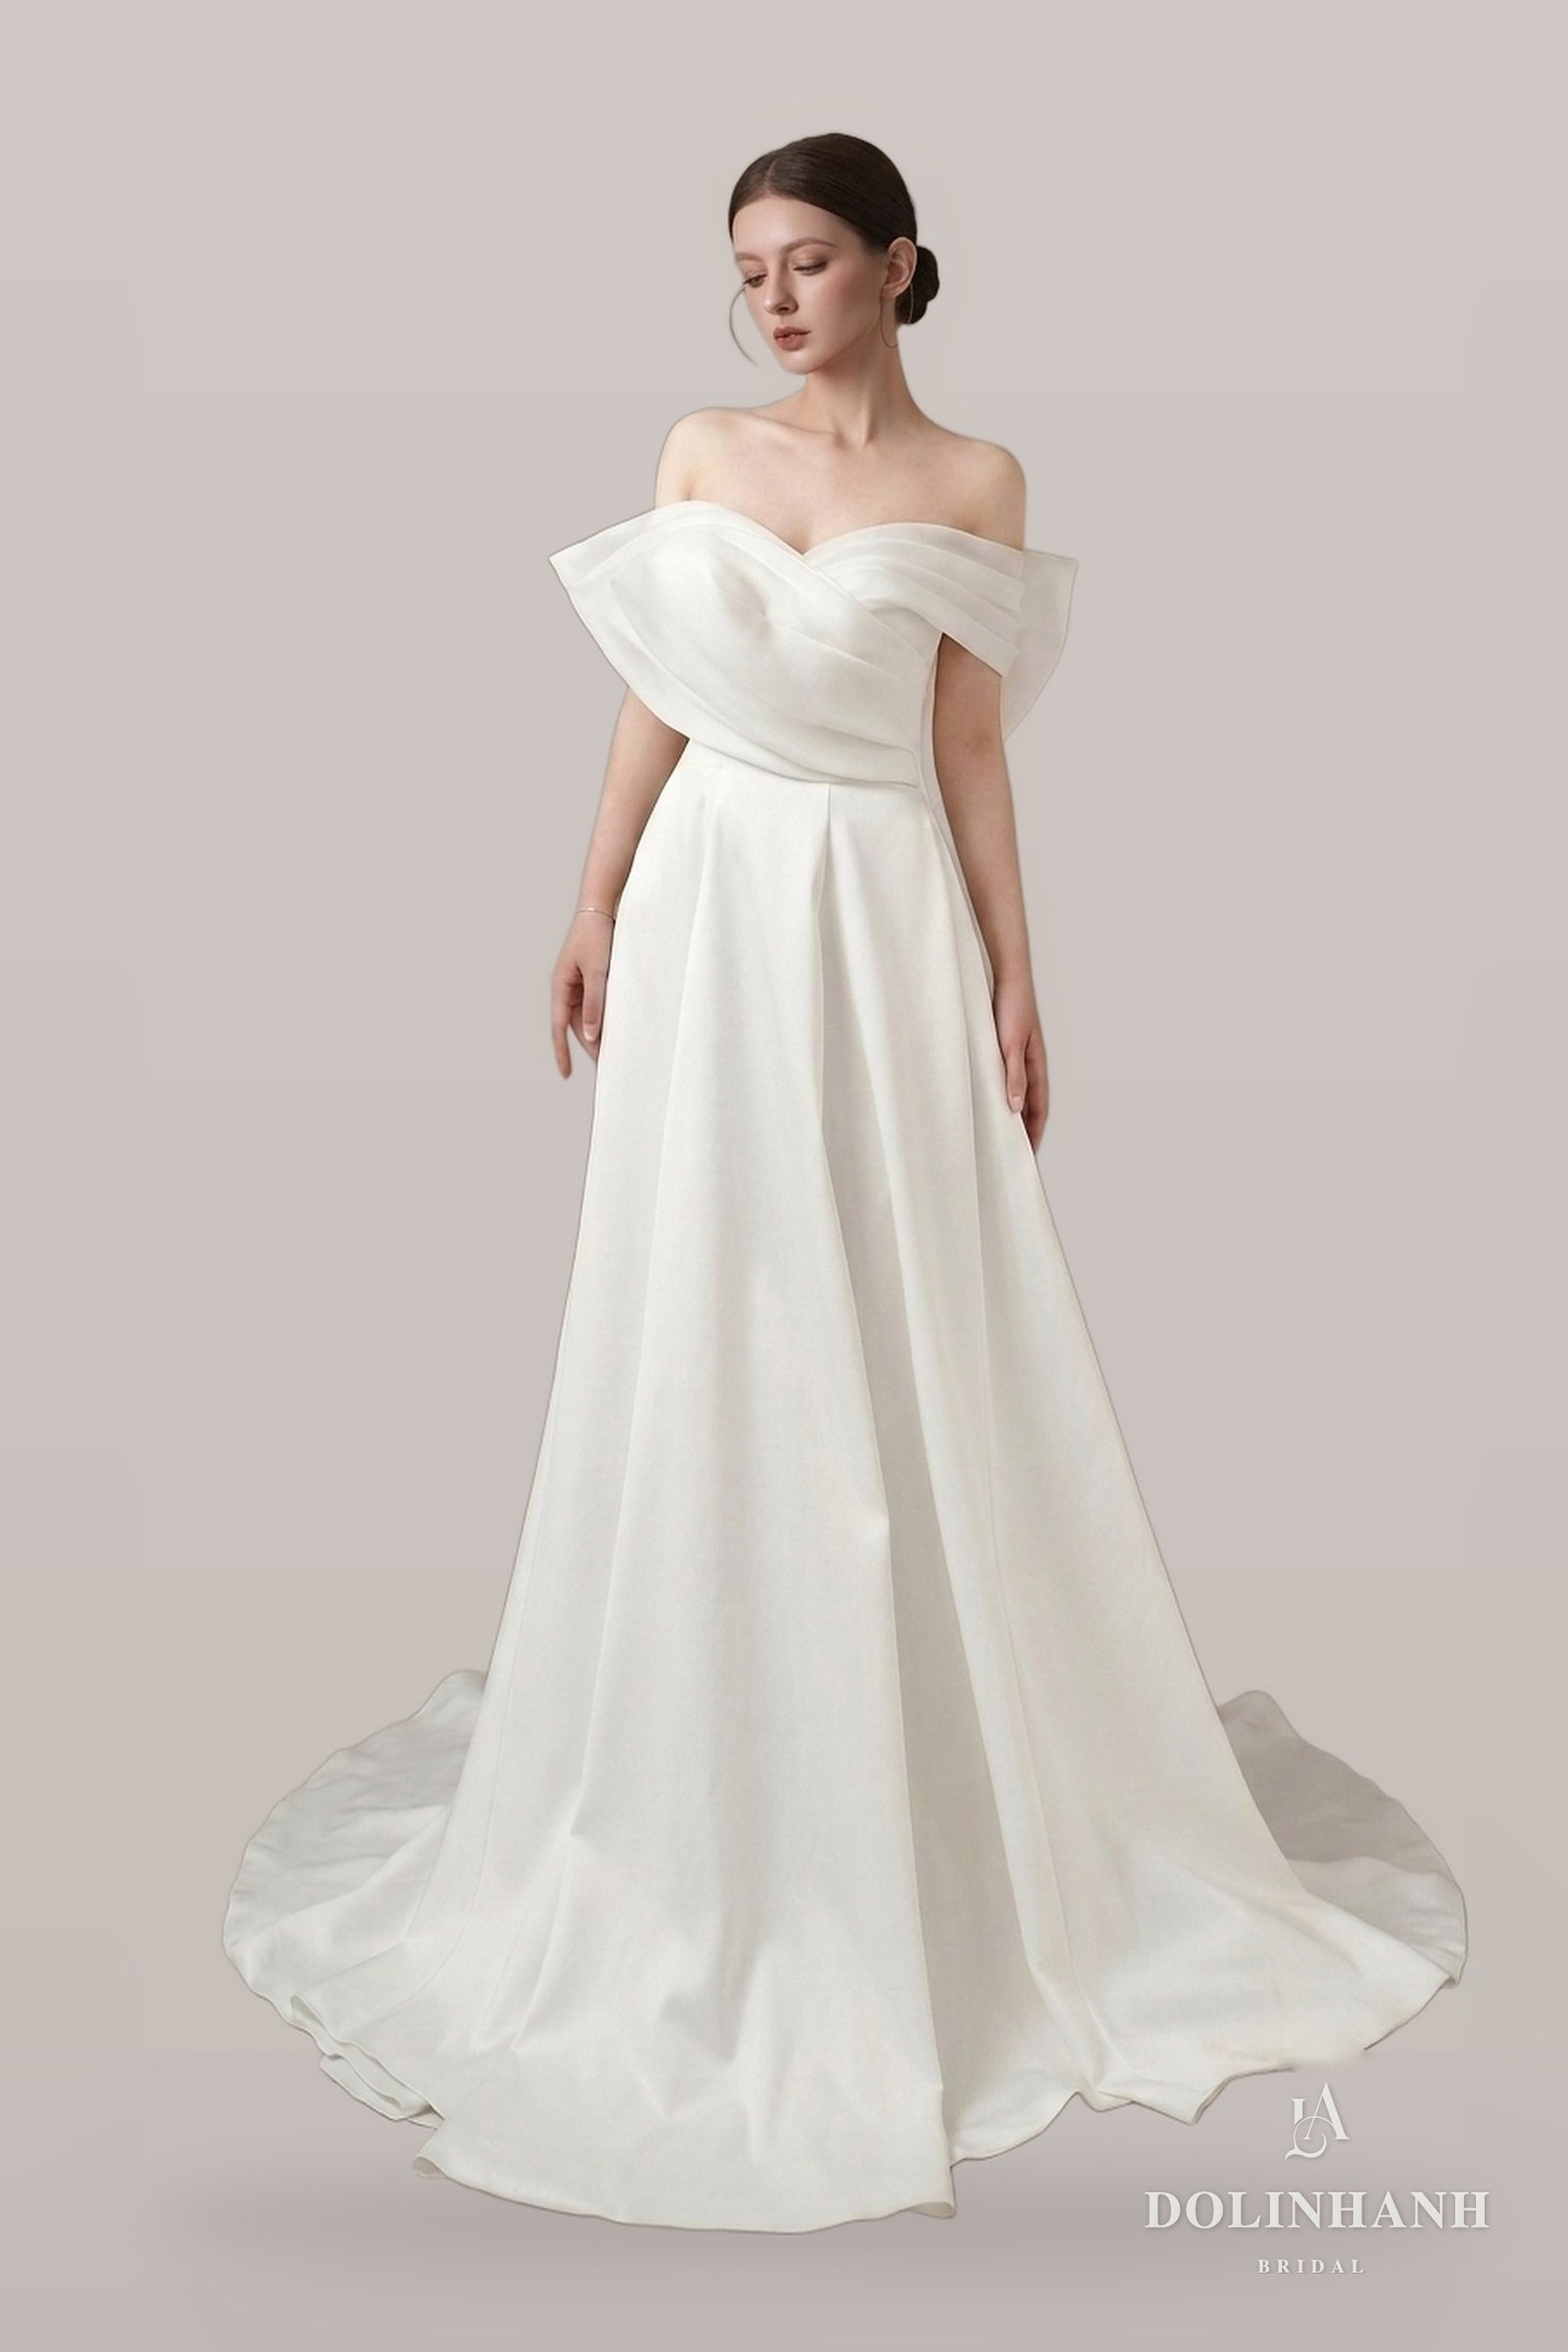
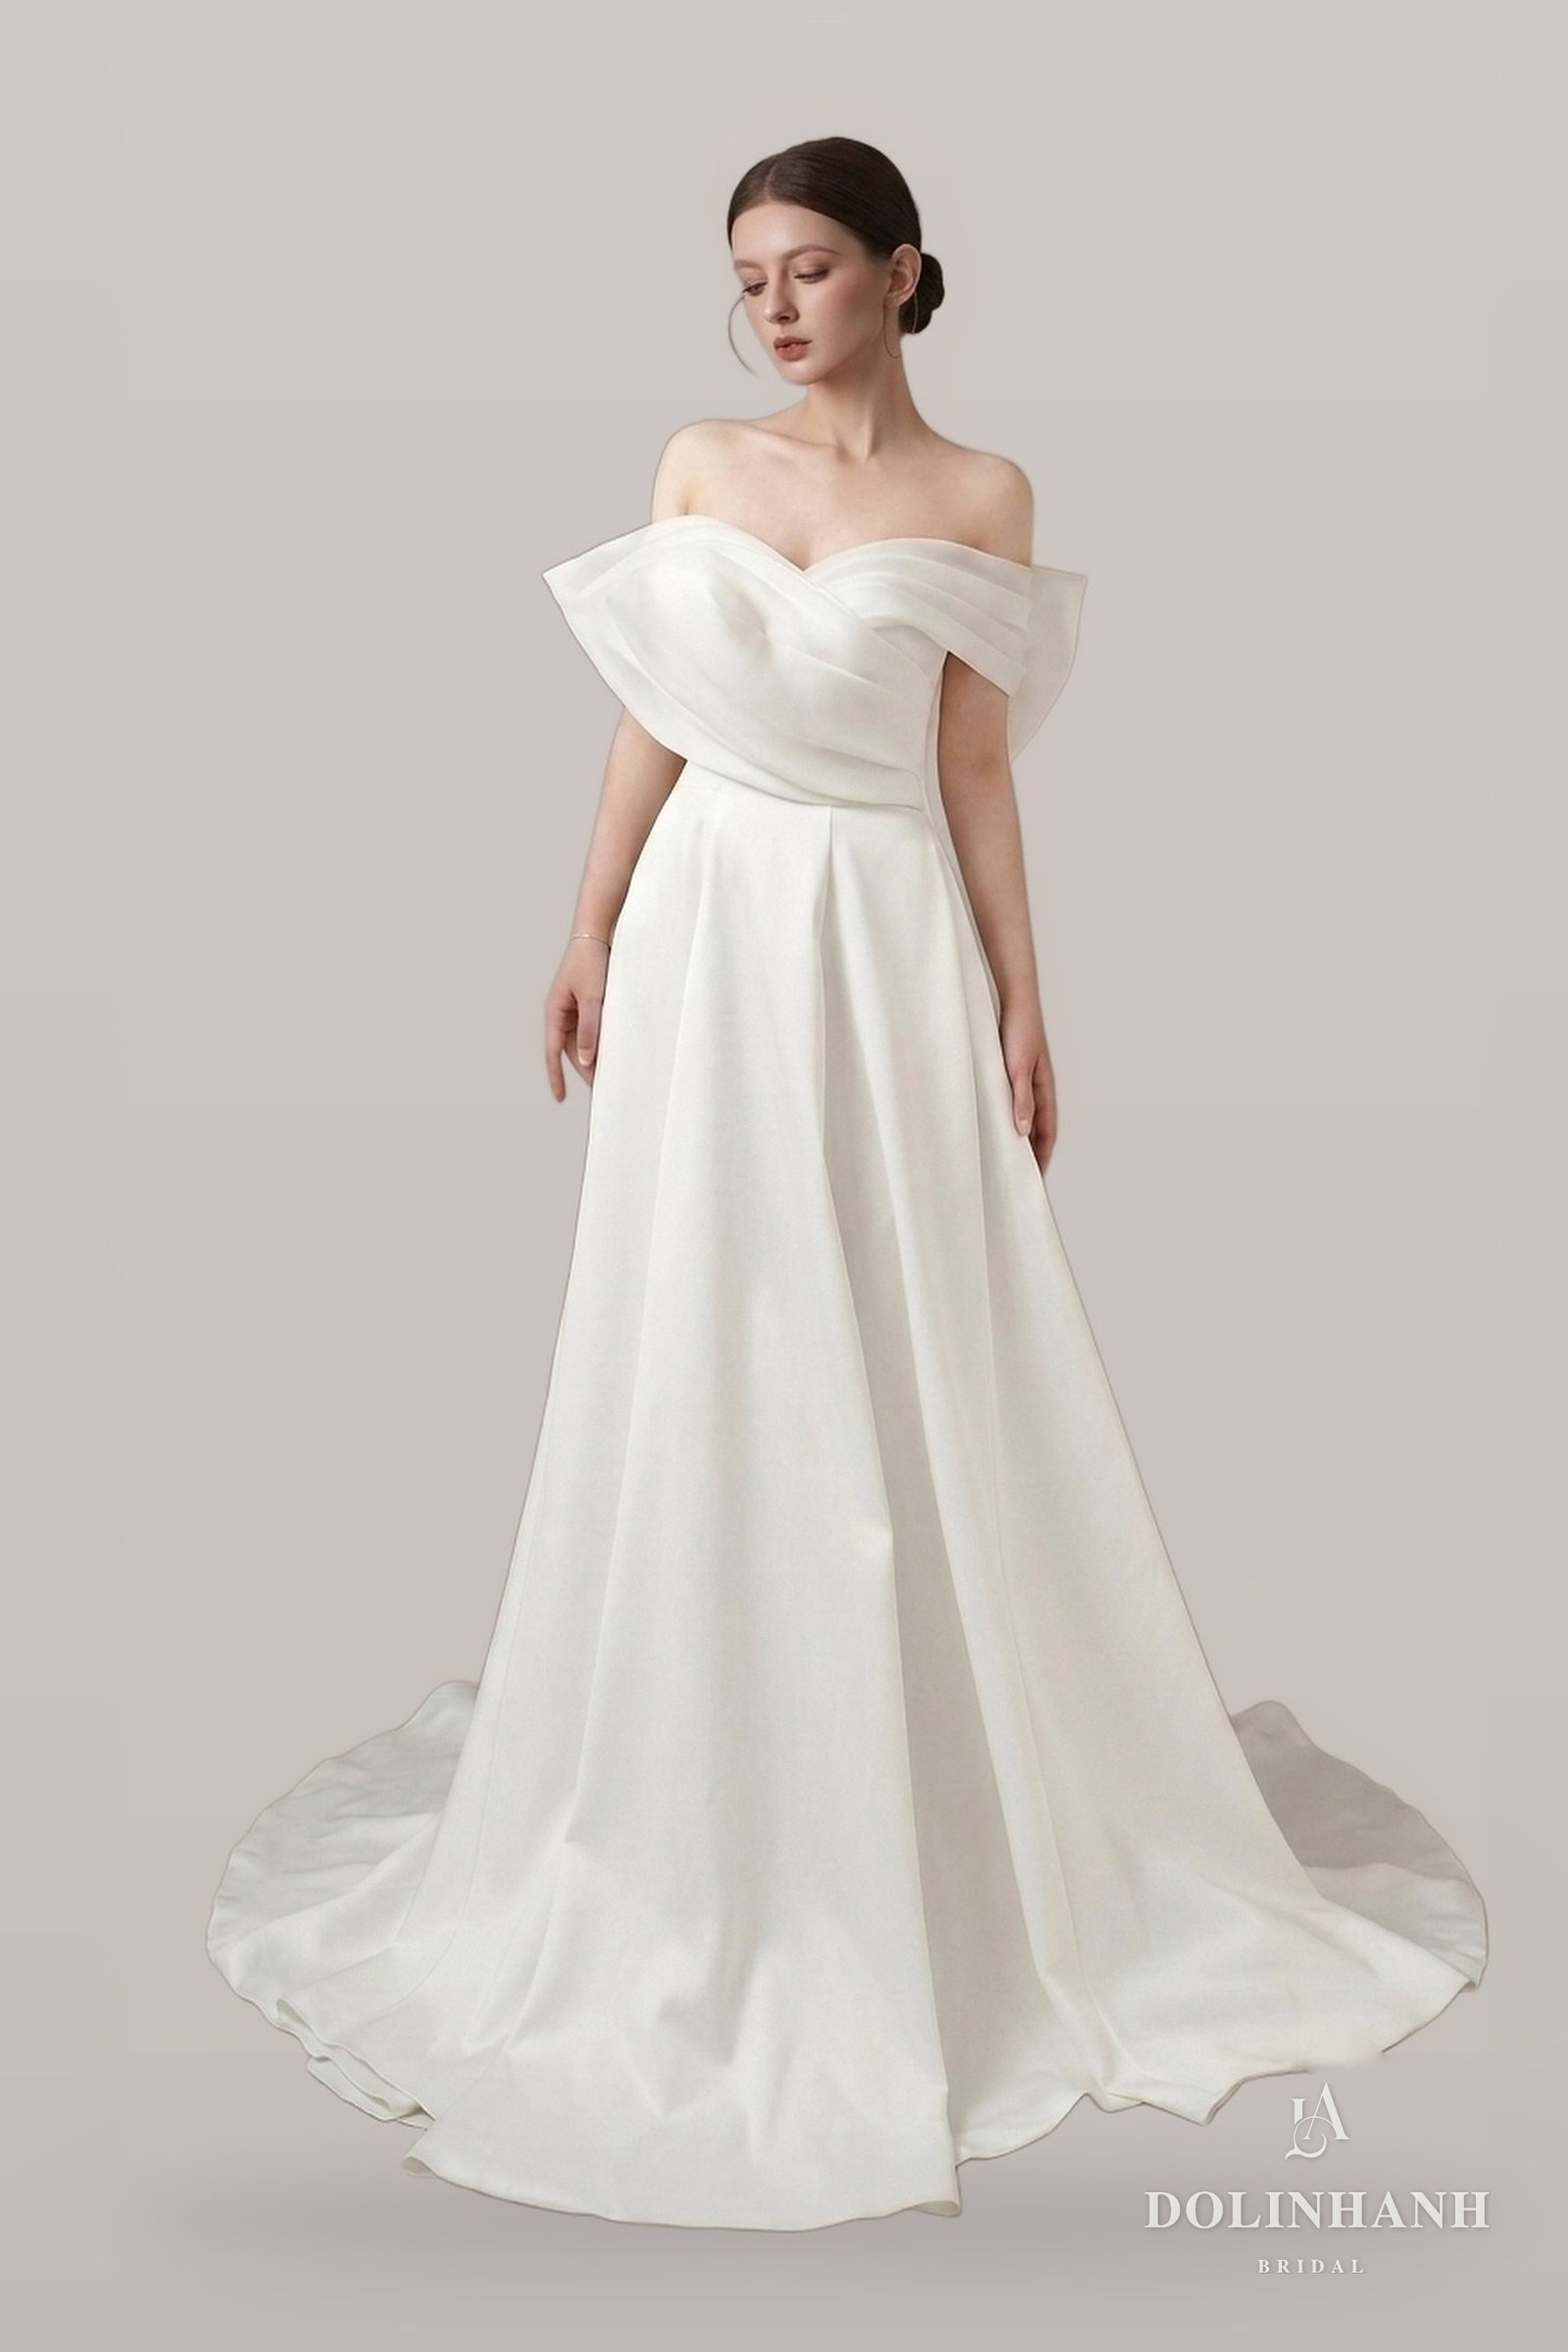
V127: MS 462 giảm chân 5% (chị Linh duyệt bản mới)

diff --git a/ver/v127/bo-suu-tap.html b/ver/v127/bo-suu-tap.html
@@ -3114,7 +3114,7 @@ src="https://www.facebook.com/tr?id=1358640082651240&ev=PageView&noscript=1"
         </figure>
         <figure data-dang="a-line" data-mood="minimal" data-coso="hn">
           <div class="sl-khung">
-            <div class="sl" data-img="../../anh/vay/ms462/01.jpg?v=4"></div>
+            <div class="sl" data-img="../../anh/vay/ms462/01.jpg?v=5"></div>
           </div>
           <figcaption><span class="kind" data-en="Dolinhanh Bridal" data-zh="Dolinhanh Bridal">Dolinhanh Bridal</span><span class="nm">MS 462</span><span class="de" data-en="Folded-wing off-shoulder A-line" data-zh="折翼一字肩A字型婚纱">Trễ vai cánh gập, chữ A</span><span class="gia">US$880</span></figcaption>
         </figure>

diff --git a/bo-suu-tap.html b/bo-suu-tap.html
@@ -3114,7 +3114,7 @@ src="https://www.facebook.com/tr?id=1358640082651240&ev=PageView&noscript=1"
         </figure>
         <figure data-dang="a-line" data-mood="minimal" data-coso="hn">
           <div class="sl-khung">
-            <div class="sl" data-img="anh/vay/ms462/01.jpg?v=4"></div>
+            <div class="sl" data-img="anh/vay/ms462/01.jpg?v=5"></div>
           </div>
           <figcaption><span class="kind" data-en="Dolinhanh Bridal" data-zh="Dolinhanh Bridal">Dolinhanh Bridal</span><span class="nm">MS 462</span><span class="de" data-en="Folded-wing off-shoulder A-line" data-zh="折翼一字肩A字型婚纱">Trễ vai cánh gập, chữ A</span><span class="gia">US$880</span></figcaption>
         </figure>

diff --git a/ver/v127/pre-wedding-dress.html b/ver/v127/pre-wedding-dress.html
@@ -1152,7 +1152,7 @@ src="https://www.facebook.com/tr?id=1358640082651240&ev=PageView&noscript=1"
         </figure>
         <figure data-dang="a-line" data-mood="minimal" data-coso="hn">
           <div class="sl-khung">
-            <div class="sl" data-img="../../anh/vay/ms462/01.jpg?v=4"></div>
+            <div class="sl" data-img="../../anh/vay/ms462/01.jpg?v=5"></div>
           </div>
           <figcaption><span class="kind" data-en="Dolinhanh Bridal" data-zh="Dolinhanh Bridal">Dolinhanh Bridal</span><span class="nm">MS 462</span><span class="de" data-en="Off-shoulder satin A-line" data-zh="一字肩缎面A字型婚纱">Trễ vai, chữ A</span></figcaption>
         </figure>

diff --git a/pre-wedding-dress.html b/pre-wedding-dress.html
@@ -1152,7 +1152,7 @@ src="https://www.facebook.com/tr?id=1358640082651240&ev=PageView&noscript=1"
         </figure>
         <figure data-dang="a-line" data-mood="minimal" data-coso="hn">
           <div class="sl-khung">
-            <div class="sl" data-img="anh/vay/ms462/01.jpg?v=4"></div>
+            <div class="sl" data-img="anh/vay/ms462/01.jpg?v=5"></div>
           </div>
           <figcaption><span class="kind" data-en="Dolinhanh Bridal" data-zh="Dolinhanh Bridal">Dolinhanh Bridal</span><span class="nm">MS 462</span><span class="de" data-en="Off-shoulder satin A-line" data-zh="一字肩缎面A字型婚纱">Trễ vai, chữ A</span></figcaption>
         </figure>
